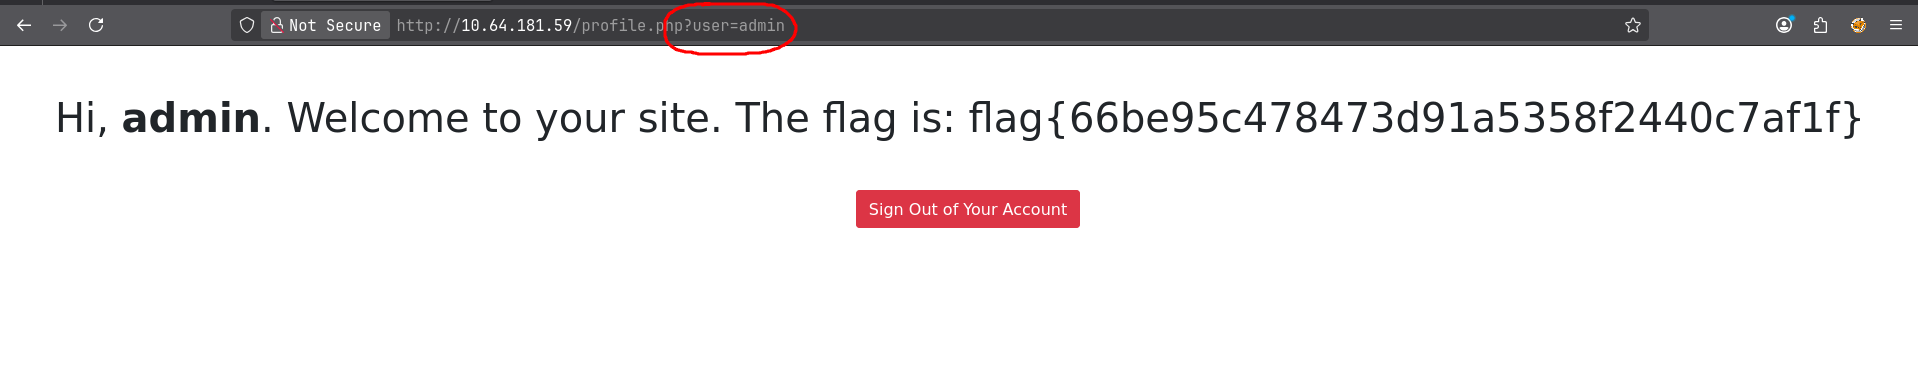
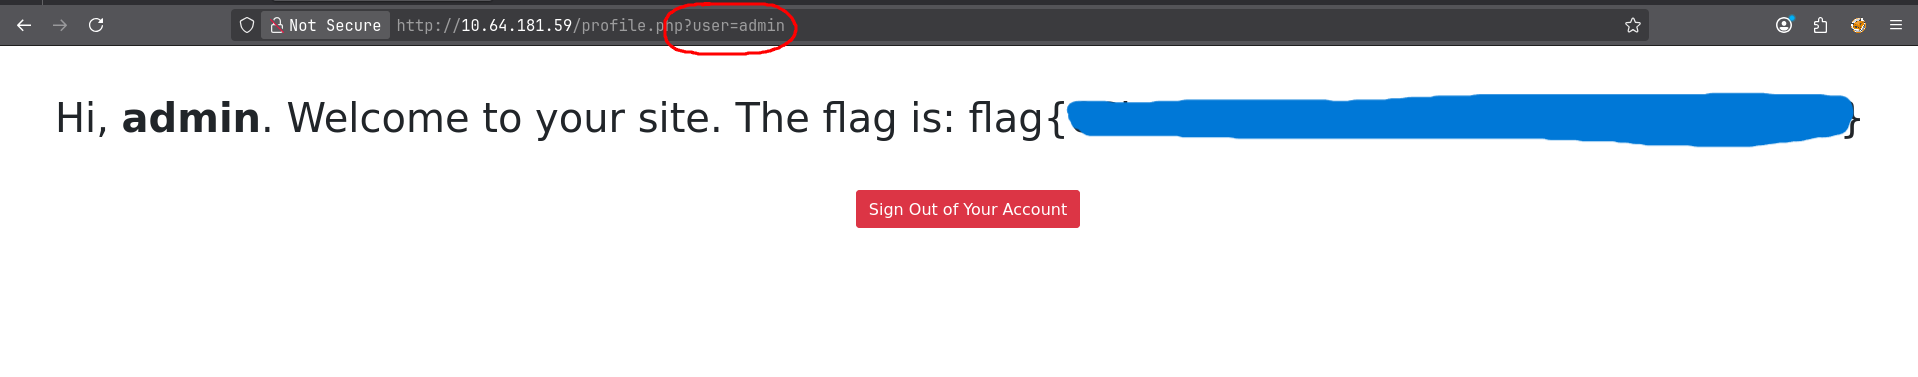
hides flag in Neighbour_3 and fixes grammar in Neighbour Writeup

Changed region(s): [[0.5537, 0.2334, 0.9844, 0.4085]]

diff --git a/Neighbour.md b/Neighbour.md
@@ -1,42 +1,68 @@
-## IDOR Basics:
+## IDOR Basics
 ---
-- in the description of this room was mentioned that we can check out `IDOR` because its similar content 
-- so I assume that we will find a `IDOR`-vulnerability in this room
-- `IDOR` stands for `Insecure Direct Object Reference` 
-- This type of vulnerability can occur when a web server uses user-owned data to retrieve objects
-- `Example`: 
-	- we just created a new bank-account and view the new account and we see this `URL` in the Browser: 
-	```
-	http://online-service.thm/profile?user_id=1305
-	```
-	- we see that their is a `user_id` set 
-	- if we try to change that `id` to another number and get content from other bank-accounts 
-	- then we know that their is a `IDOR`-vulnerability present 
-## IDOR Vulnerability:
+
+- In the description of this room, it is mentioned that we should look into `IDOR`, as this room contains similar content.
+- Therefore, we can assume that an `IDOR` vulnerability is present in this room.
+- `IDOR` stands for **Insecure Direct Object Reference**.
+- This type of vulnerability occurs when a web application uses user-controlled input to directly access objects without proper authorization checks.
+
+### Example:
 ---
-- the description also said that we have to navigate to `http://<Machine-IP-Adress` 
-- so lets do that:
+- Imagine we just created a new bank account and view our profile.
+- We notice the following `URL` in the browser:
+
+```
+http://online-service.thm/profile?user_id=1305
+```
+
+- We can see that a `user_id` parameter is being used.
+- If we change this `user_id` to another number and are able to access data from other users’ bank accounts,
+- then an `IDOR` vulnerability is present.
+
+---
+
+## Identifying the IDOR Vulnerability
+---
+
+- The room description also states that we should navigate to:
+
+```
+http://<Machine-IP-Address>
+```
+
+- So let’s do that:
+
 ![](assets/Neighbour_1.png)
-- we see a `login-form` and a message that we should check out the `source-code` if we don't have a account 
-- so lets do it 
-- we find a `HTML-comment`: 
+
+- We are presented with a login form and a message suggesting that we should check the source code if we do not have an account.
+- Let’s inspect the source code.
+- There, we find the following `HTML` comment:
+
 ```html
 <!-- use guest:guest credentials until registration is fixed. "admin" user account is off limits!!!!! -->
 ```
-- so lets use `guest:guest` to login 
+
+- Based on this comment, we log in using the credentials `guest:guest`.
 
 ![](assets/Neighbour_2.png)
-- after we logged in we see a `welcome-message` and a `logout` button 
-- but lets ignore this and look at the `URL`: 
+
+- After logging in, we see a welcome message and a logout button.
+- However, instead of interacting with the page, let’s take a closer look at the `URL`:
+
 ```
 http://10.64.181.59/profile.php?user=guest
 ```
-- we see that the `profile.php` has a variable set that stores a `user` value that is currently set to `guest` 
-- so that could be the `IDOR` that they talked about
-- when we look at the `comment` again: 
+
+- We can see that `profile.php` uses a `user` parameter, which is currently set to `guest`.
+- This looks like a potential `IDOR` vulnerability, as the user identity is controlled via the URL.
+- Let’s revisit the comment we found earlier:
+
 ```html
 <!-- use guest:guest credentials until registration is fixed. "admin" user account is off limits!!!!! -->
 ```
-- there is a `admin` account mentioned, so lets try to store that in the `user` variable 
-- after we did this, we get this `page-content`: 
+
+- An `admin` account is explicitly mentioned.
+- So let’s try replacing the `user` parameter value from `guest` to `admin`.
+- After doing this, we receive the following page content:
+
 ![](assets/Neighbour_3.png)
